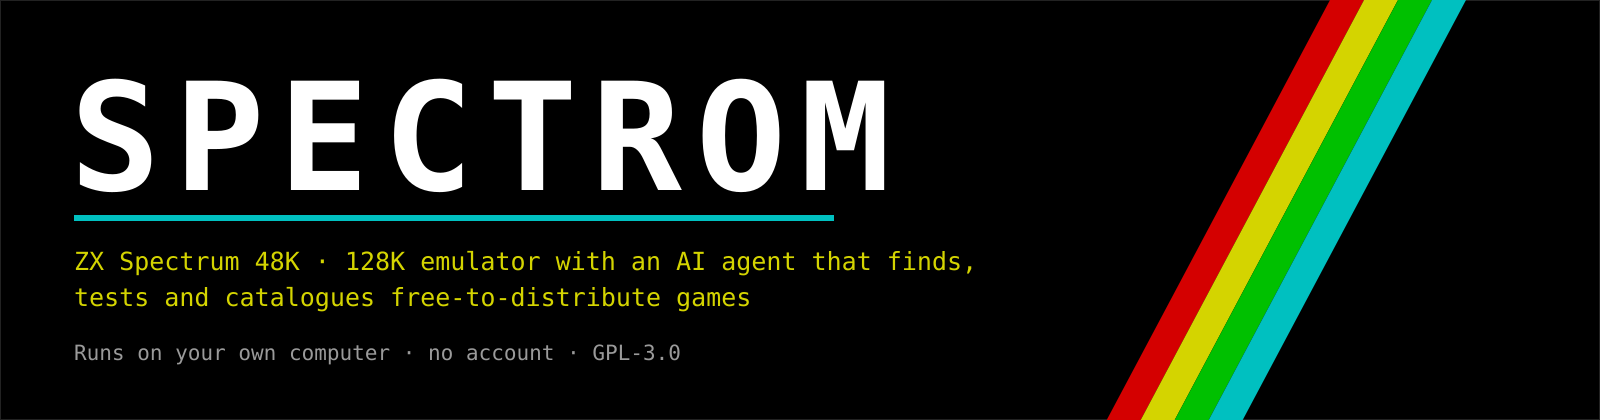
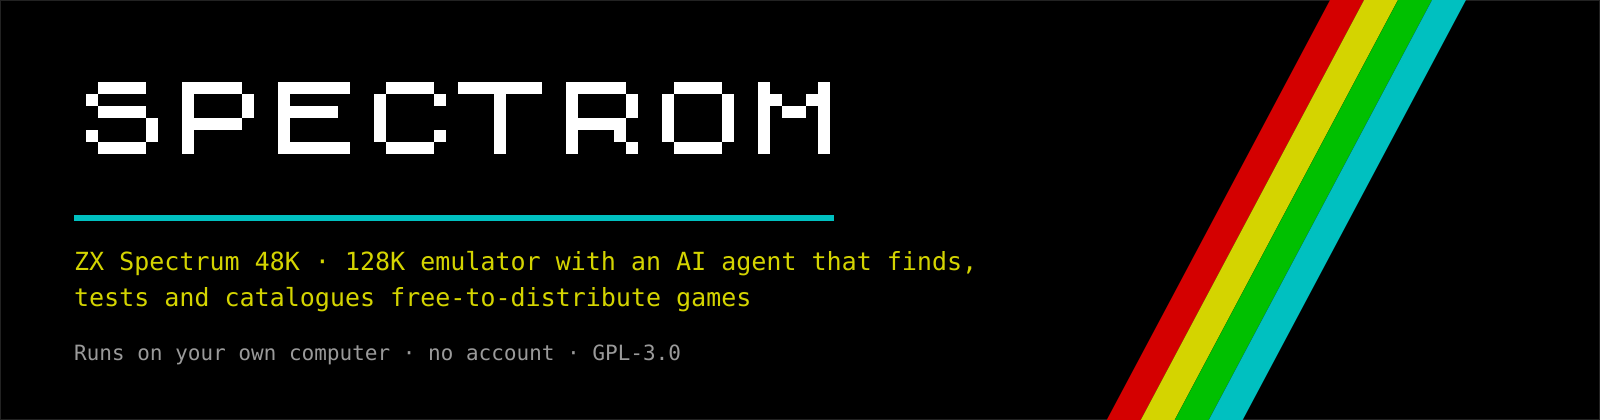
SPECTROM standalone 1.0.1: the SPECTROM name always in the ZX Spectrum ROM font

Changed region(s): [[0.0312, 0.1857, 0.5625, 0.4643]]

diff --git a/public/spectrom.js b/public/spectrom.js
@@ -3,7 +3,7 @@
 // Copyright (C) 2026 Plastikelectrik — GNU GPL v3 or later (see LICENSE).
 (function () {
     'use strict';
-    const VERSION = '1.0.0';
+    const VERSION = '1.0.1';
     const API = (window.SPECTROM_API || (location.origin + '/api'));
     const VENDOR = (window.SPECTROM_VENDOR || '/jsspeccy/');
     const $ = (s, r) => (r || document).querySelector(s);
@@ -303,7 +303,8 @@
 .zx-vol input{width:90px;accent-color:#ffff00}
 .zx-chip.btn{cursor:pointer}.zx-chip.btn:hover{border-color:#ffff00;color:#ffff00}
 .zx-footer{margin-top:22px;font-size:10.5px;color:#55555f;line-height:1.6;position:relative;z-index:1}
-.zx-footer a{color:#77778a}`;
+.zx-footer a{color:#77778a}
+.zx-inl{vertical-align:-1px;display:inline;height:.8em!important;width:auto}`;
 
     function toast(msg, err) {
         const t = document.createElement('div'); t.className = 'zx-toast' + (err ? ' err' : ''); t.textContent = msg;
@@ -699,7 +700,7 @@
             el.innerHTML = '<div class="zx-h">Saved games</div><p style="color:#aaa">Reading…</p>';
             const list = await this.listSaves(), by = {}; list.forEach((x) => { by[x.slot] = x; });
             el.innerHTML = `<div class="zx-h">Saved games — ${esc(g.title || '')}</div>
-                <p style="font-size:12px;color:#bbb;line-height:1.6;margin:0">The whole Spectrum is saved (memory, processor, 128K banks and sound chip) as a standard <b>.Z80</b> snapshot in the <b>data/saves</b> folder of SPECTROM.
+                <p style="font-size:12px;color:#bbb;line-height:1.6;margin:0">The whole Spectrum is saved (memory, processor, 128K banks and sound chip) as a standard <b>.Z80</b> snapshot in the <b>data/saves</b> folder of ${romImg('SPECTROM', 2, '#bbbbbb', null, 'zx-inl')}.
                 AUTO is written every time you power off the game. <span class="zx-key">F6</span> continues the most recent save.</p>
                 <div class="zx-saves">${SLOTS.map((sl) => { const x = by[sl]; return `<div class="zx-slot ${x ? 'has' : ''} ${sl === 'auto' ? 'auto' : ''}">
                     <div class="th" ${x && x.thumb ? `style="background-image:url('${esc(x.thumb)}')"` : ''}>${x && x.thumb ? '' : (x ? '' : 'EMPTY')}</div>
@@ -781,7 +782,7 @@
             <div class="zx-chips" data-chips><span class="zx-chip">Connecting…</span></div></div>
             <div class="zx-tabs">${[['library', 'LIBRARY'], ['agent', 'AI AGENT'], ['load', 'LOAD TAPE']].map(([k, l]) => `<button class="zx-tab ${k === this.tab ? 'on' : ''}" data-tab-x="${k}">${l}</button>`).join('')}</div>
             <div data-view></div>
-            <div class="zx-footer">Emulator core: <a href="https://github.com/gasman/jsspeccy3" target="_blank" rel="noopener">JSSpeccy 3</a> by Matt Westcott (GPL-3.0, source and licence in /jsspeccy/). Game data: <a href="https://github.com/zxdb/ZXDB" target="_blank" rel="noopener">ZXDB</a>. Spectrum ROMs © Amstrad, distributed with permission for use in emulators. SPECTROM only downloads and plays games whose rights holders allow distribution; titles marked © are listed only. <a href="https://github.com/Plastikelectrik/spectrom-standalone" target="_blank" rel="noopener">SPECTROM standalone</a> · GPL-3.0</div>`;
+            <div class="zx-footer">Emulator core: <a href="https://github.com/gasman/jsspeccy3" target="_blank" rel="noopener">JSSpeccy 3</a> by Matt Westcott (GPL-3.0, source and licence in /jsspeccy/). Game data: <a href="https://github.com/zxdb/ZXDB" target="_blank" rel="noopener">ZXDB</a>. Spectrum ROMs © Amstrad, distributed with permission for use in emulators. ${romImg('SPECTROM', 2, '#55555f', null, 'zx-inl')} only downloads and plays games whose rights holders allow distribution; titles marked © are listed only. <a href="https://github.com/Plastikelectrik/spectrom-standalone" target="_blank" rel="noopener">${romImg('SPECTROM', 2, '#77778a', null, 'zx-inl')} standalone</a> · GPL-3.0</div>`;
             this.root.addEventListener('click', (ev) => {
                 if (ev.target.closest('button,.zx-card,.zx-tab,[data-sound]')) SFX.click();
                 const t = ev.target.closest('[data-tab-x]'); if (t) this.show(t.dataset.tabX);
@@ -869,7 +870,7 @@
             const facts = [['Year', g.year], ['Publisher', (g.publishers || []).join(', ')], ['Authors', (g.authors || []).join(', ')], ['Genre', g.genre], ['Machine', g.machine + (g.testedMachine ? ' · tested on ' + g.testedMachine + 'K' : '')],
                 ['Players', g.players], ['Language', g.language ? g.language.toUpperCase() : ''], ['Rating', g.votes ? '★ ' + Number(g.score).toFixed(2) + ' (' + g.votes + ' votes)' : ''], ['Rights', g.availabilityText], ['Agent test', g.test ? g.test.reason : (g.failReason || '')], ['Source', g.source ? g.source.label || g.source.id : ''], ['Added', g.addedAt ? new Date(g.addedAt).toLocaleString() : '']]
                 .filter((x) => x[1]).map(([k, v]) => `<dt>${esc(k)}</dt><dd>${esc(v)}</dd>`).join('');
-            const keys = (g.keys || []).length ? `<table class="zx-keys">${g.keys.map((k) => `<tr><td style="width:90px"><span class="zx-key">${esc(k.key)}</span></td><td>${esc(k.action)}</td></tr>`).join('')}</table>` : '<p style="color:#999;font-size:12px">The original instructions have no key list the agent could read. Most games use Q A O P + SPACE or a joystick (arrows + Ctrl in SPECTROM).</p>';
+            const keys = (g.keys || []).length ? `<table class="zx-keys">${g.keys.map((k) => `<tr><td style="width:90px"><span class="zx-key">${esc(k.key)}</span></td><td>${esc(k.action)}</td></tr>`).join('')}</table>` : '<p style="color:#999;font-size:12px">The original instructions have no key list the agent could read. Most games use Q A O P + SPACE or a joystick (arrows + Ctrl in ' + romImg('SPECTROM', 2, '#999999', null, 'zx-inl') + ').</p>';
             m.innerHTML = `<div class="zx-sheet"><div class="zx-sheet-top">${romImg(String(g.title).toUpperCase().slice(0, 34), 2, '#000000')}<button class="x" data-x>✕</button></div>
             <div class="zx-sheet-body"><div>
                 ${imgs.length ? `<img class="zx-gal-main" src="${esc(imgs[0].url)}" alt=""><div class="zx-gal-cap" data-cap>${esc(capt[imgs[0].name] || imgs[0].name)}</div>
@@ -883,7 +884,7 @@
                 ${g.tips ? `<p class="zx-desc" style="color:#ffff00">TIP: ${esc(g.tips)}</p>` : ''}
                 <dl class="zx-facts">${facts}</dl>
                 ${g.notes ? `<div class="zx-h">Notes (ZXDB)</div><p class="zx-desc" style="font-size:12px;white-space:pre-line">${esc(g.notes)}</p>` : ''}
-                ${g.copyright ? `<div class="zx-copy-note"><b>© ${esc(g.availabilityText)}.</b> Its rights holders do not allow its distribution, so SPECTROM only shows its sheet: it never looks for, downloads or plays this game. Look for an authorised release (re-releases, the publisher, the author) to play it.</div>` : ''}
+                ${g.copyright ? `<div class="zx-copy-note"><b>© ${esc(g.availabilityText)}.</b> Its rights holders do not allow its distribution, so ${romImg('SPECTROM', 2, '#ffb3b3', null, 'zx-inl')} only shows its sheet: it never looks for, downloads or plays this game. Look for an authorised release (re-releases, the publisher, the author) to play it.</div>` : ''}
                 <div class="zx-actions">
                     ${playable ? `<button class="zx-btn go" data-play style="font-size:14px;padding:12px 20px"><i class="fas fa-play"></i> LOAD ""</button>` : ''}
                     ${(g.status === 'failed' && !g.copyright) ? '<button class="zx-btn yel" data-again><i class="fas fa-rotate"></i> SEARCH AGAIN</button>' : ''}
@@ -928,7 +929,7 @@
         renderAgent(v) {
             v.innerHTML = `<div class="zx-agent">
                 <div class="zx-box zx-live"><h3><i class="fas fa-tv"></i> Live test monitor — the agent team at work <button class="zx-btn" data-livesnd style="float:right;padding:4px 8px;font-size:10px">${prefs().liveSound ? '🔊 SOUND ON' : '🔈 SOUND OFF'}</button></h3>
-                    <div class="zx-live-grid"><div class="zx-tv"><canvas width="256" height="192" data-tv></canvas><div class="zx-tv-label" data-tvl>SPECTROM AGENT</div><div class="zx-tv-step" data-tvs>idle</div><div class="zx-stamp" data-stamp></div></div>
+                    <div class="zx-live-grid"><div class="zx-tv"><canvas width="256" height="192" data-tv></canvas><div class="zx-tv-label" data-tvl>${romImg('SPECTROM AGENT', 2, '#00ffff', null, 'zx-inl')}</div><div class="zx-tv-step" data-tvs>idle</div><div class="zx-stamp" data-stamp></div></div>
                     <div class="zx-team">${[['curator', 'fa-brain', 'AI CURATOR', 'Plans the hunt with the local AI'], ['scout', 'fa-satellite-dish', 'SCOUT', 'Finds the tape and its instructions'], ['tester', 'fa-microchip', 'TESTER', 'Boots it on a headless Spectrum'], ['archivist', 'fa-book-open', 'ARCHIVIST', 'Writes the game sheet']]
                         .map(([k, ic, n, d]) => `<div class="zx-role" data-role="${k}"><i class="fas ${ic} ic"></i><div><b>${n}</b><small data-rs>${d}</small></div></div>`).join('')}
                         <div style="font-size:11px;color:#777;line-height:1.6">Every test is recorded by the headless Spectrum and replayed here: tape loading, title screen, the agent pressing keys, and the verdict.</div></div></div></div>

diff --git a/README.es.md b/README.es.md
@@ -1,6 +1,6 @@
 ![SPECTROM — juegos de ZX Spectrum, probados y listos para jugar](docs/images/header-es.png)
 
-# SPECTROM
+<h1><img src="docs/images/spectrom-title.png" alt="SPECTROM" height="32"></h1>
 
 [English](README.md) · **Español**
 
@@ -13,7 +13,7 @@ ficha. Después lo juegas con un clic y guardas tu partida en 5 ranuras.
 Es una única aplicación Node.js que se ejecuta en tu propio ordenador. Sin cuentas y sin nube: todo se guarda en la carpeta
 `data/`.
 
-Versión **1.0.0** · licencia **GPL-3.0-or-later** · ver [CHANGELOG.md](CHANGELOG.md)
+Versión **1.0.1** · licencia **GPL-3.0-or-later** · ver [CHANGELOG.md](CHANGELOG.md)
 
 ## Solo juegos que se pueden distribuir
 

diff --git a/README.md b/README.md
@@ -1,6 +1,6 @@
 ![SPECTROM — ZX Spectrum games, tested and ready to play](docs/images/header-en.png)
 
-# SPECTROM
+<h1><img src="docs/images/spectrom-title.png" alt="SPECTROM" height="32"></h1>
 
 **English** · [Español](README.es.md)
 
@@ -13,7 +13,7 @@ your progress in 5 slots.
 It is a single Node.js app that runs on your own computer. There are no accounts and no cloud: everything is kept in the
 `data/` folder.
 
-Version **1.0.0** · licence **GPL-3.0-or-later** · see [CHANGELOG.md](CHANGELOG.md)
+Version **1.0.1** · licence **GPL-3.0-or-later** · see [CHANGELOG.md](CHANGELOG.md)
 
 ## Only games that may be distributed
 

diff --git a/CHANGELOG.md b/CHANGELOG.md
@@ -1,5 +1,10 @@
 # Changelog
 
+## 1.0.1 — 2026-11-10
+
+- The name SPECTROM is always drawn with the ZX Spectrum ROM font: README title, header and concept images, and
+  every mention inside the app (footer, test monitor, © notes, saved games).
+
 ## 1.0.0 — 2026-11-10
 
 First public release.
